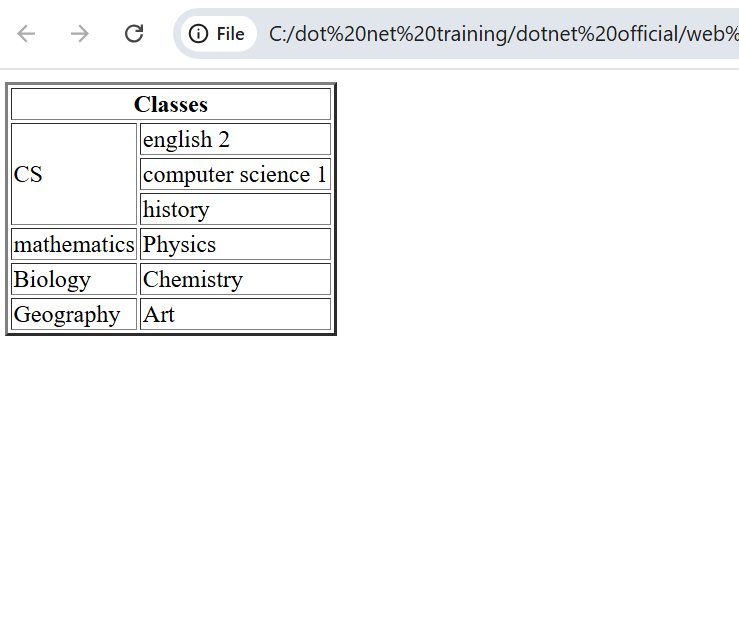
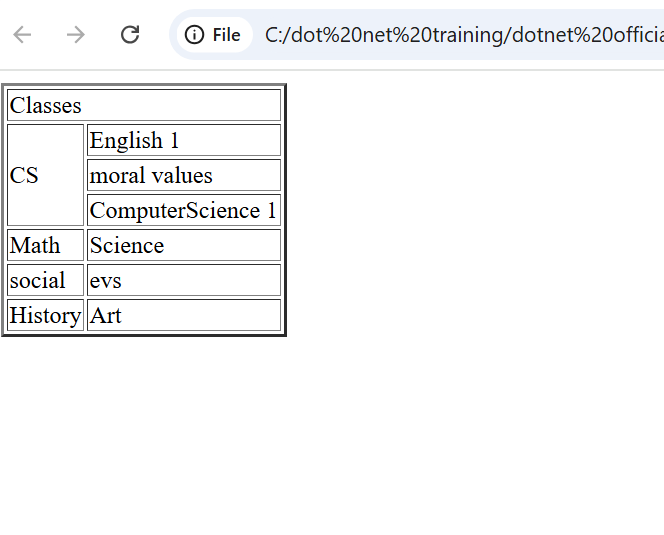
assessments

Changed region(s): [[0.0, 0.0, 1.0, 0.628], [0.0, 0.0299, 0.0602, 0.0897], [0.0904, 0.0299, 0.1205, 0.0897]]

diff --git a/web technology/cc7/assessments/assessment 1/program 6.html b/web technology/cc7/assessments/assessment 1/program 6.html
@@ -1,35 +1,35 @@
 <!DOCTYPE html>
-<html lang="en" xmlns="http://www.w3.org/1999/xhtml">
+<html lang="en"> 
 <head>
-    <meta charset="utf-8" />
-    <title>Class schedule</title>
+    <meta charset="UTF-8">
+    <title>Classes Table</title>
 </head>
 <body>
 
     <table border="2">
         <tr>
-            <th colspan="2">Classes</th>
+            <td colspan="2">Classes</td>
         </tr>
         <tr>
             <td rowspan="3">CS</td>
-            <td>english 2</td>
+            <td>English 1</td>
         </tr>
         <tr>
-            <td>computer science 1</td>
+            <td>moral values</td>
         </tr>
         <tr>
-            <td>history</td>
+            <td>ComputerScience 1</td>
         </tr>
         <tr>
-            <td>mathematics</td>
-            <td>Physics</td>
+            <td>Math </td>
+            <td>Science </td>
         </tr>
         <tr>
-            <td>Biology</td>
-            <td>Chemistry</td>
+            <td>social </td>
+            <td>evs </td>
         </tr>
         <tr>
-            <td>Geography</td>
+            <td>History</td>
             <td>Art</td>
         </tr>
     </table>
